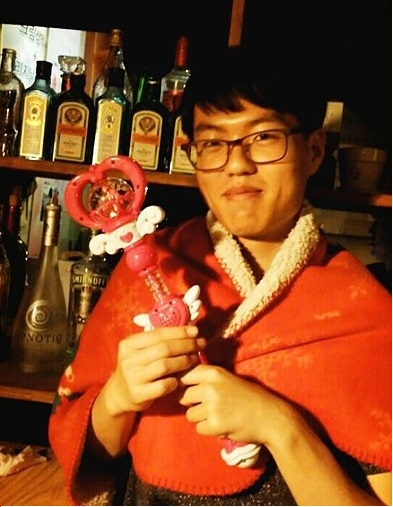
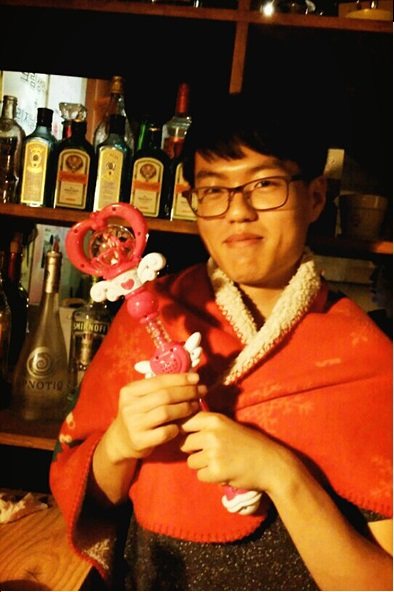
fix profile pictures

diff --git a/index.html b/index.html
@@ -272,7 +272,7 @@
                         	<div class="photo-item frame-border animation fadeInRight">
                                 	
                              	<!--PHOTO-->
-                               	<img src="./images/profile/resize/ms.jpg" alt="" class="hover-animation image-zoom-in">
+                               	<img src="./images/profile/resize/ms_2.jpg" alt="" class="hover-animation image-zoom-in">
                                             
                                	<!--PHOTO OVERLAY-->
                            		<div class="layer wh100 hidden-black-overlay hover-animation fade-in">
